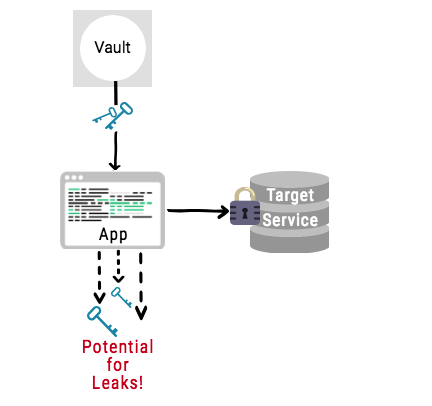
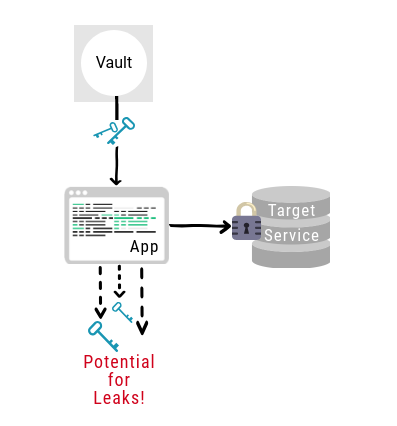
fixes sizes of arch image for landing page

Changed region(s): [[0.1209, 0.0, 0.8463, 0.9754]]

diff --git a/docs/_layouts/landing.html b/docs/_layouts/landing.html
@@ -50,14 +50,14 @@ id: home
 						<li>Manage connection disruptions</li>
 					</ul>
 				</div>
-				<img class="arch-img" src="img/traditionalarch.png" alt="Traditional Architecture">
+				<img class="arch-img traditional-img" src="img/traditionalarch.png" alt="Traditional Architecture">
 			</div>
 		</div>
 
 		<div class="row sub-card">
 			<p class="card-heading">Secretless Architecture</p>
 			<div class="arch-respons-box">
-				<img class="arch-img" src="img/secretlessarch.png" alt="Secretless Architecture">
+				<img class="arch-img secretless-img" src="img/secretlessarch.png" alt="Secretless Architecture">
 				<div class="arch-respons arch-right">
 					<p class="card-subheading broker">Broker Responsibilities</p>
 					<ul class="arch-list">

diff --git a/docs/css/style.css b/docs/css/style.css
@@ -236,7 +236,10 @@ code{
     width: 80%;
 }
 .arch-img{
-	width: 22em;
+	width: 26em;
+}
+.secretless-img{
+	width: 29em;
 }
 .arch-list > li{
 	font-family: 'Source Sans Pro', sans-serif;
